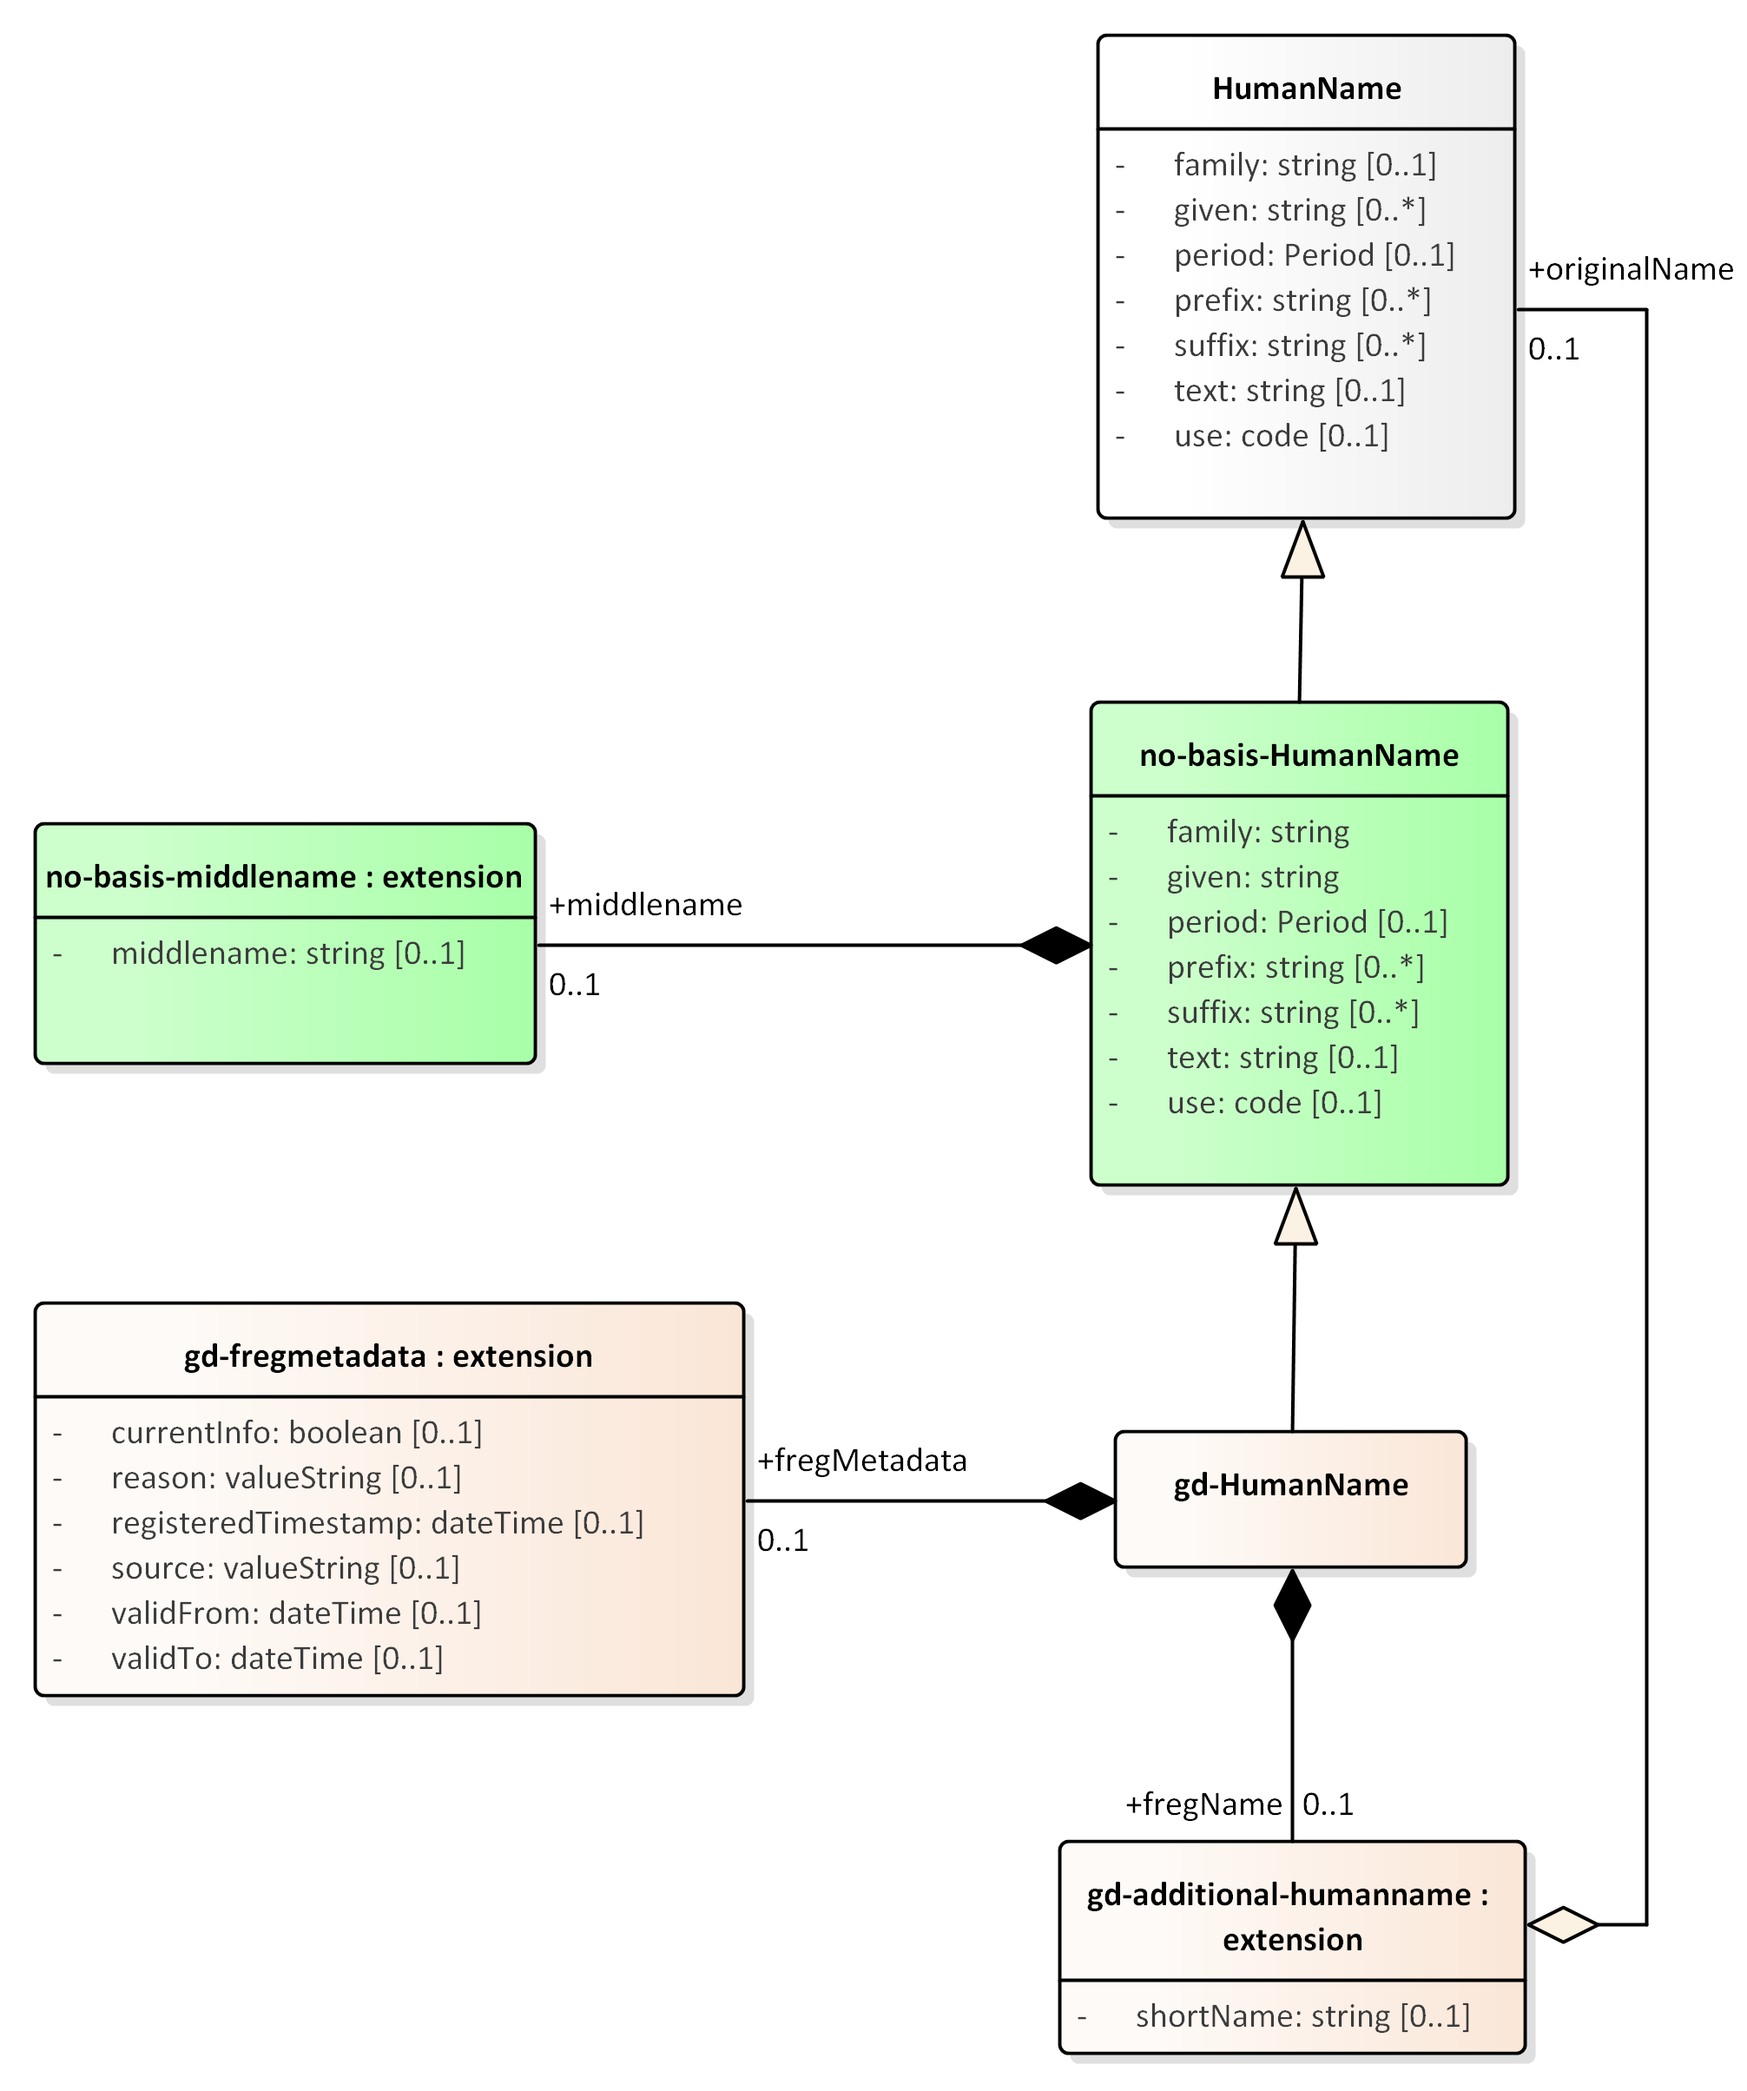
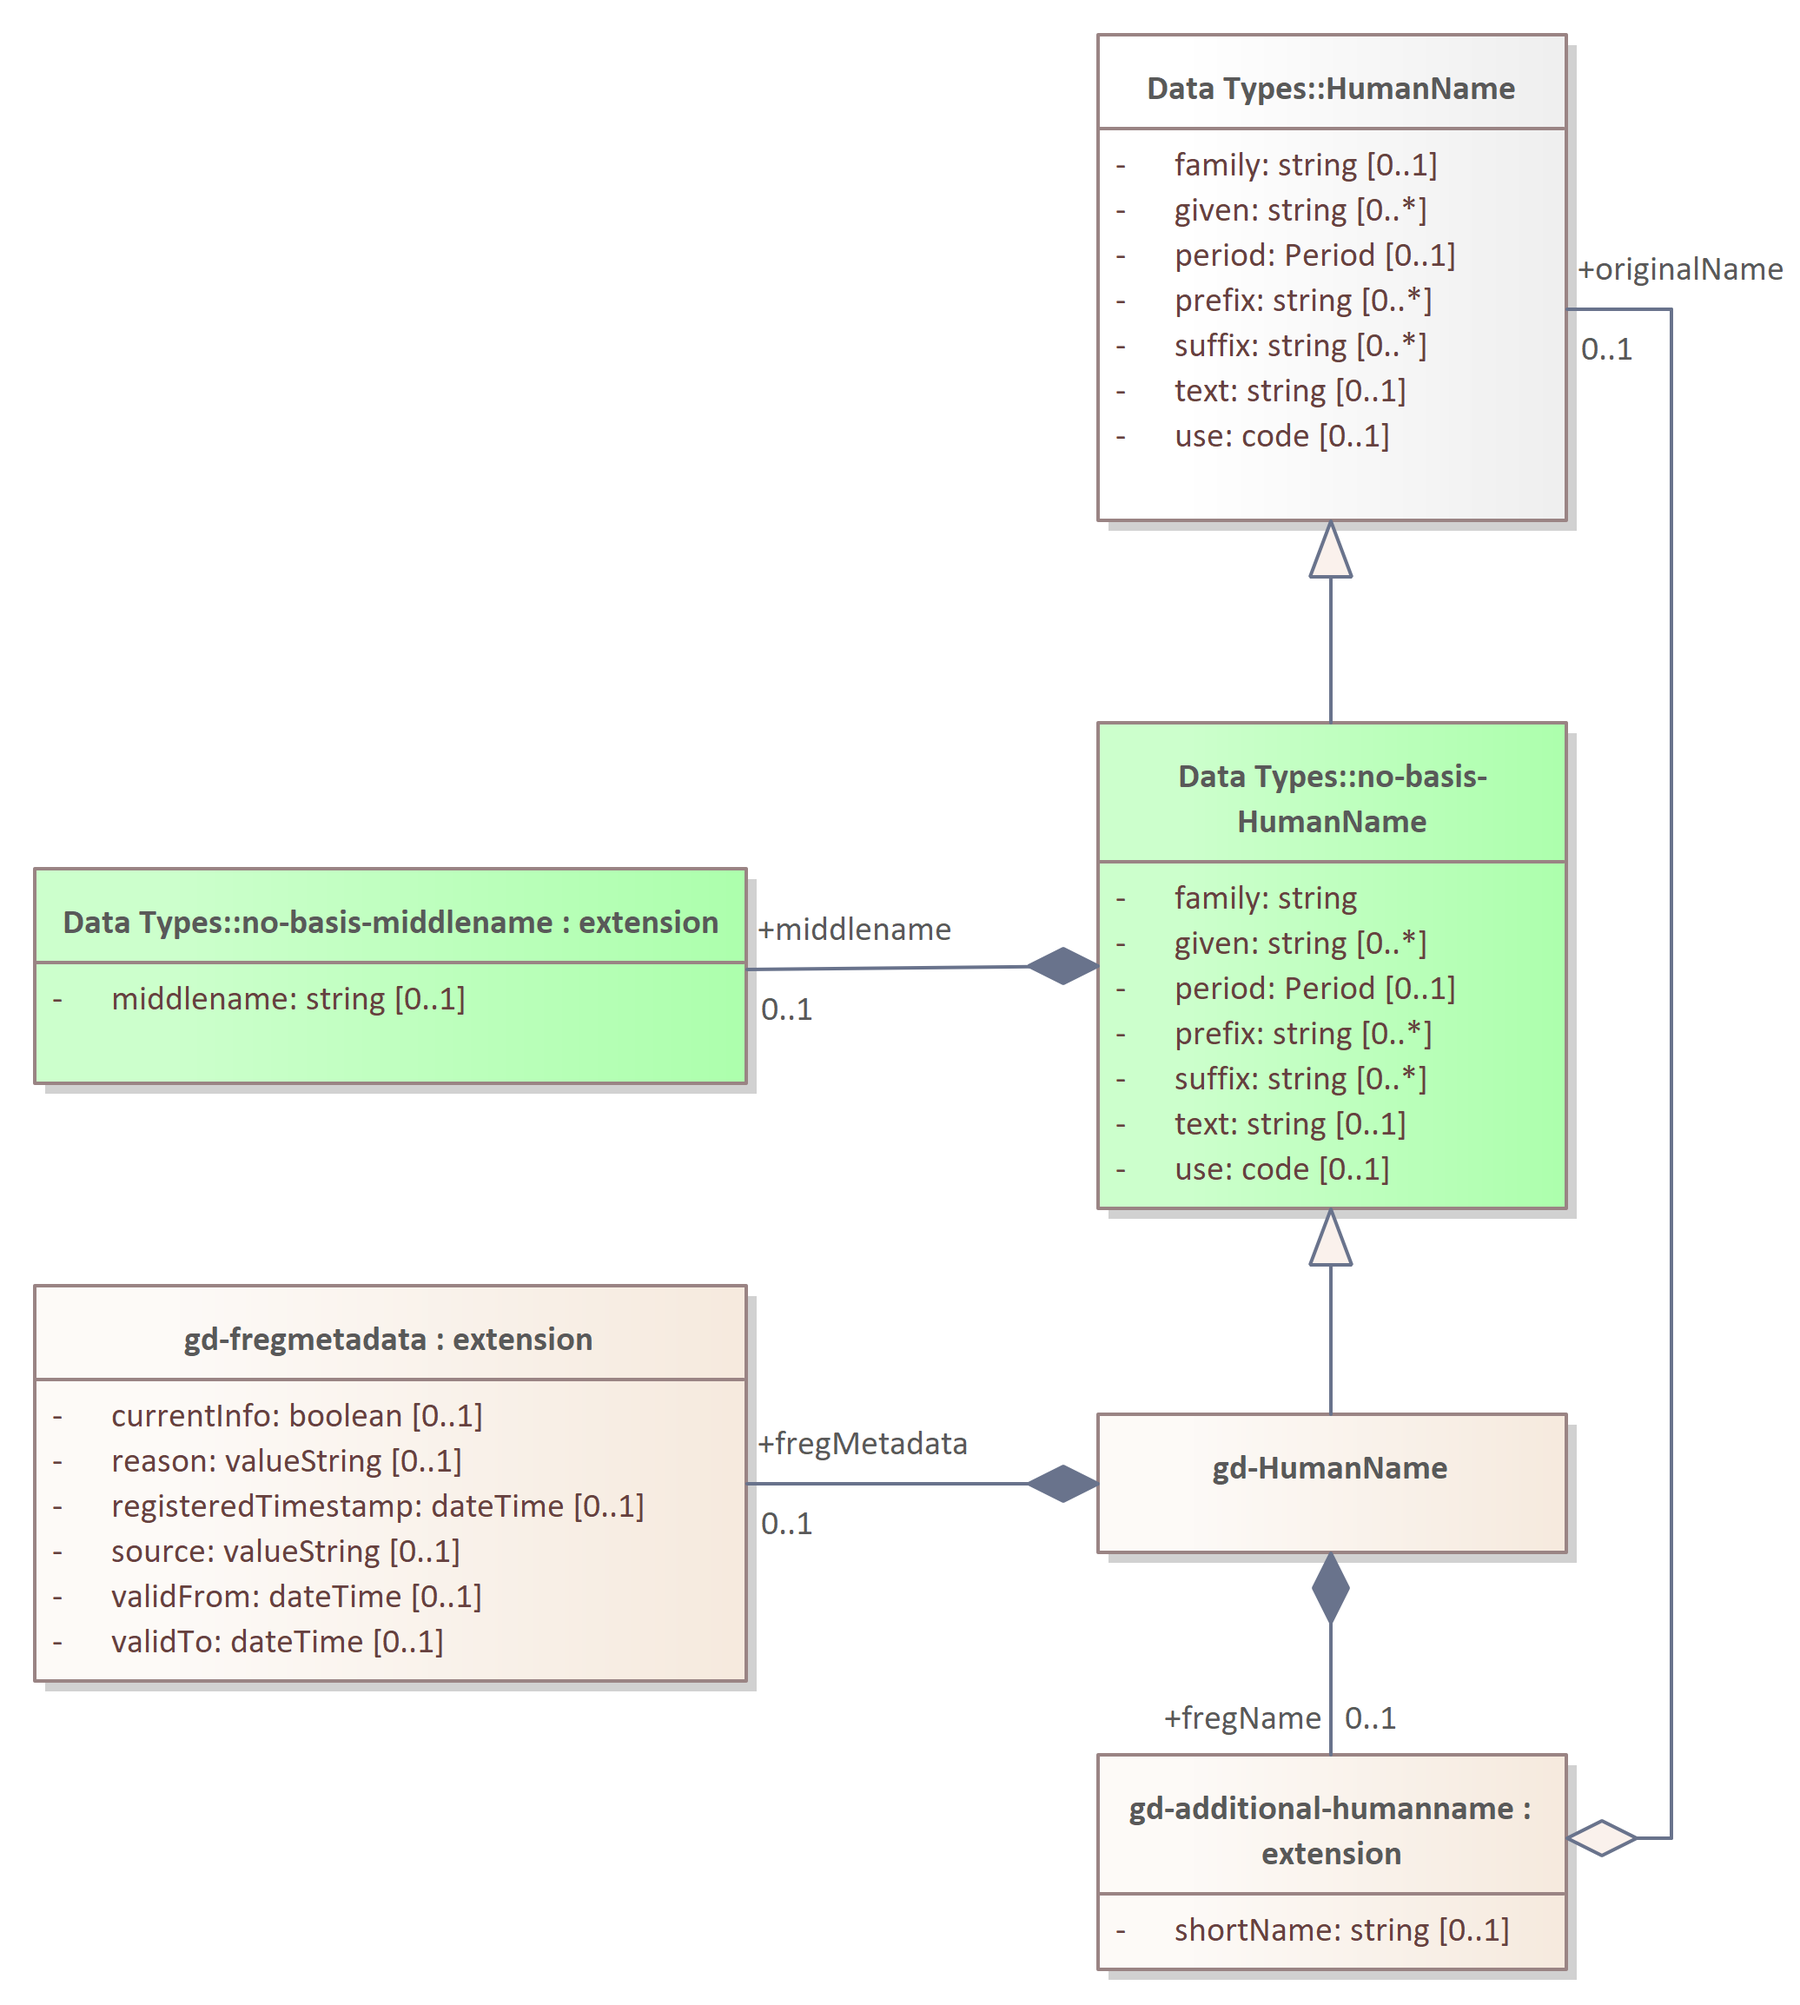
|2021-07-02|Documentation|Updated diagrams for documentation|Feature 3830| |2021-07-02|GdPersonCitizenshipRetention|Bugfix mapping and missing datoForBibehold element, changed norwegian element name to englishbibeholdStatus|Bugfix| |2021-07-02|GdPerson|Fixed wrong cardinality of citizenshipRetention

Changed region(s): [[0.0, 0.0, 1.0, 0.9983], [0.0, 0.3744, 0.5239, 0.5615], [0.0, 0.6239, 0.0308, 0.7175]]

diff --git a/Changelog-300.md b/Changelog-300.md
@@ -61,7 +61,6 @@ This is a new release completing the information model according to FREG informa
 |2021-06-30|GdPersonCitizenshipRetentionValueSet|Added valueset for bibehold|PBI 10359|
 |2021-06-30|GdPerson|Added extension for samilanguage to GdPerson|PBI 10363|
 |2021-06-30|gd-Person-Fred-pajord-sami-language.xml|Added samiLanguage example (Validated .NET)|PBI 10363|
-
-Ser ut til å være utfordring med snapshot generering av profiler på profiler (profiler utledet fra no-basis) når kildekoden genereres av Forge for de utlede profilene.
-
-* Fremdeles ingen løsning på "this element does not match any known slice defined in the profile http://ehelse.no/fhir/StructureDefinition/gd-person-status (information)"
+|2021-07-02|Documentation|Updated diagrams for documentation|Feature 3830|
+|2021-07-02|GdPersonCitizenshipRetention|Bugfix mapping and missing datoForBibehold element, changed norwegian element name to englishbibeholdStatus|Bugfix|
+|2021-07-02|GdPerson|Fixed wrong cardinality of citizenshipRetention|Bugfix|

diff --git a/ImplementationGuide/Address-confidentiality-summary.md b/ImplementationGuide/Address-confidentiality-summary.md
@@ -10,7 +10,6 @@ Gyldige kodeverdier er:
  fortrolig
  strengtFortrolig (strengt fortrolig)
 
-
 # Adressegradering oppsummering (address-confidentiality valueset)
 
 ## adressegradering
